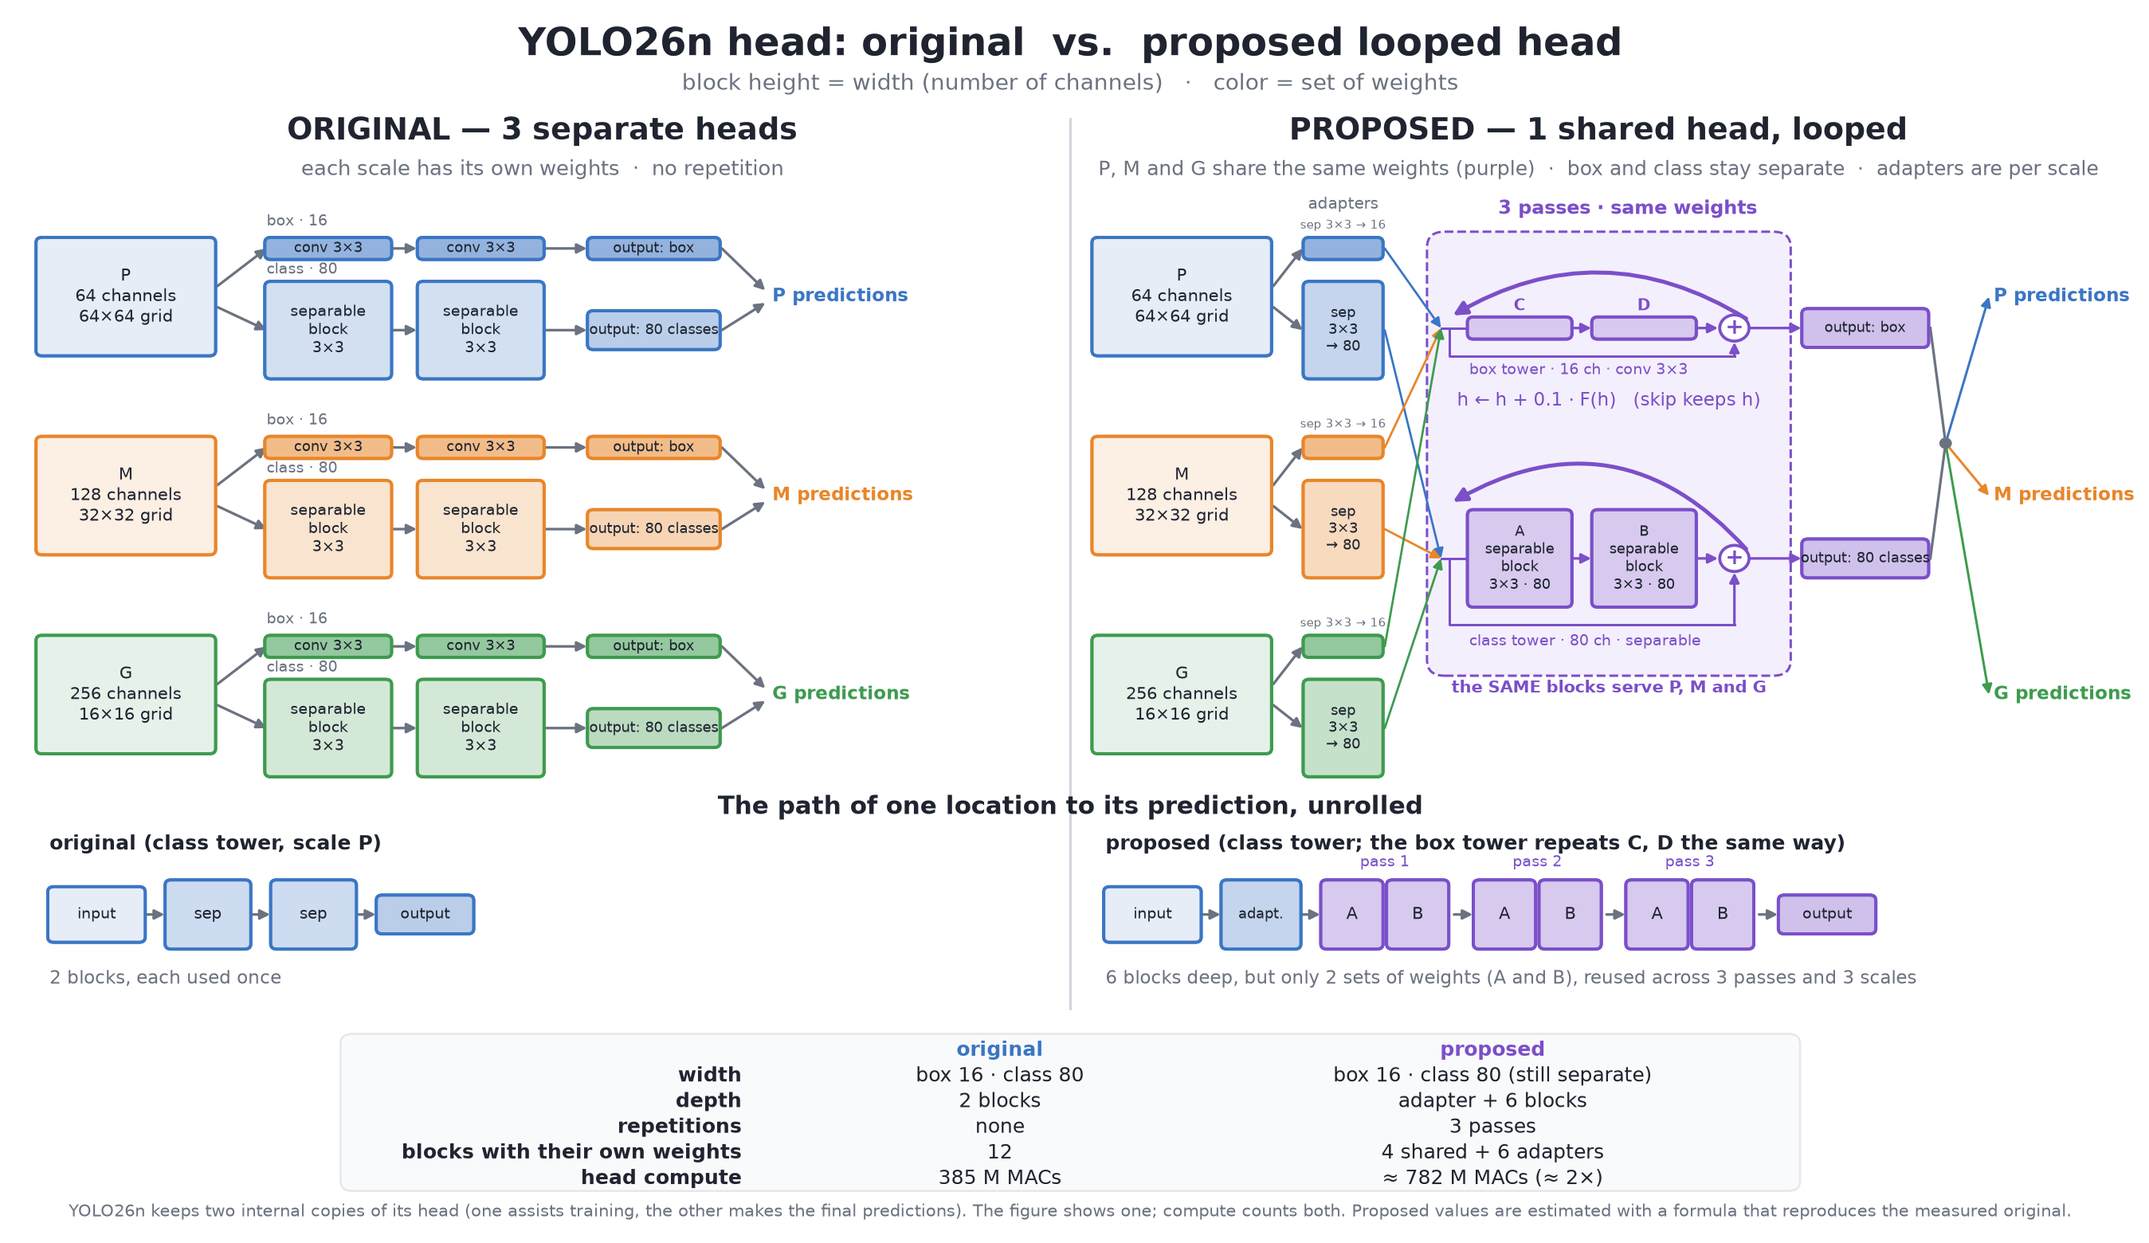
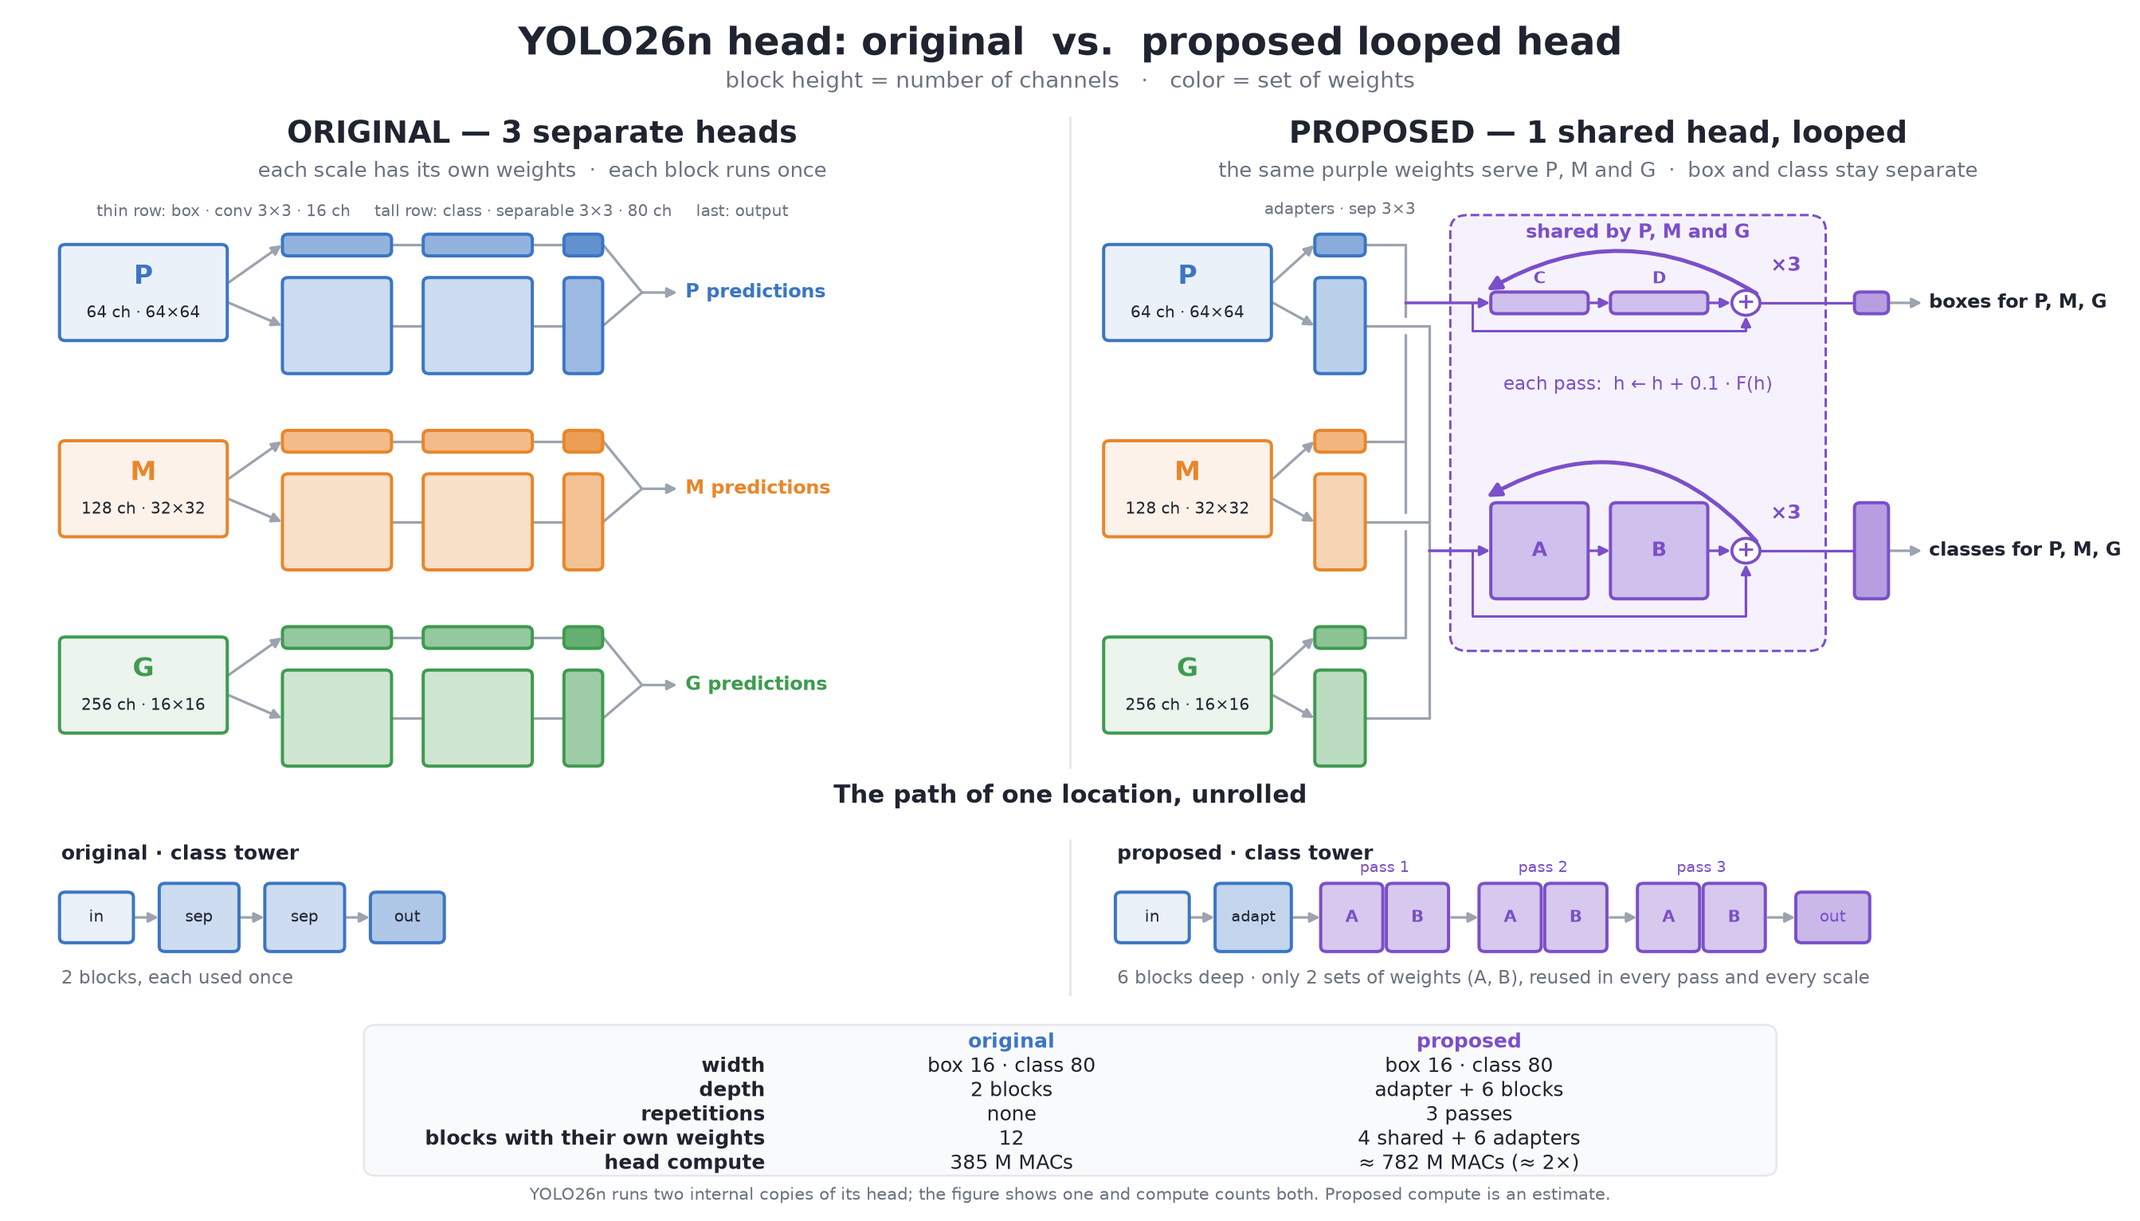
docs(readme): declutter the looped-head figure

diff --git a/scripts/draw_looped_head.py b/scripts/draw_looped_head.py
@@ -1,3 +1,4 @@
+#!/usr/bin/env python3
 """Draw assets/looped-head.png: YOLO26n's three heads vs. one looped head shared by all scales.
 
 Block height is proportional to channel width; colors mark separate sets of weights.
@@ -12,159 +13,165 @@ from matplotlib.patches import FancyBboxPatch, FancyArrowPatch, Circle
 OUT = Path(__file__).resolve().parents[1] / "assets" / "looped-head.png"
 SCALE = {"P": "#3B76C4", "M": "#E8862A", "G": "#3E9B4F"}
 SHARED = "#7B4FC9"
-INK = "#1F2430"
-GREY = "#6B7280"
-H80 = 9.0                      # drawn height for 80 channels; height is proportional to width
+INK, GREY, LINE = "#1F2430", "#6B7280", "#9CA3AF"
+H80 = 9.0                      # drawn height of 80 channels; height is proportional to width
 H16 = H80 * 16 / 80
+ROWS = {"P": (77, "64 ch · 64×64"), "M": (58, "128 ch · 32×32"), "G": (39, "256 ch · 16×16")}
 
 
-def box(ax, x, y, w, h, color, text="", fs=9, alpha=.22, tc=INK, lw=1.6, bold=False):
-    ax.add_patch(FancyBboxPatch((x, y - h / 2), w, h, boxstyle="round,pad=0.15,rounding_size=0.5",
-                                fc=color, ec=color, lw=lw, alpha=1, zorder=2))
-    ax.add_patch(FancyBboxPatch((x, y - h / 2), w, h, boxstyle="round,pad=0.15,rounding_size=0.5",
-                                fc="white", ec="none", alpha=1 - alpha, zorder=2.1))
-    ax.add_patch(FancyBboxPatch((x, y - h / 2), w, h, boxstyle="round,pad=0.15,rounding_size=0.5",
-                                fc="none", ec=color, lw=lw, zorder=2.2))
+def box(ax, x, y, w, h, color, text="", fs=9, alpha=.22, lw=1.6, bold=False, tc=INK):
+    style = "round,pad=0.15,rounding_size=0.5"
+    ax.add_patch(FancyBboxPatch((x, y - h / 2), w, h, boxstyle=style, fc=color, ec="none", alpha=alpha, zorder=2))
+    ax.add_patch(FancyBboxPatch((x, y - h / 2), w, h, boxstyle=style, fc="none", ec=color, lw=lw, zorder=2.2))
     if text:
         ax.text(x + w / 2, y, text, ha="center", va="center", fontsize=fs, color=tc, zorder=3,
                 fontweight="bold" if bold else "normal")
 
 
-def arrow(ax, a, b, color=GREY, rad=0., lw=1.3, style="-|>", ms=10, z=1.5):
-    ax.add_patch(FancyArrowPatch(a, b, arrowstyle=style, mutation_scale=ms, color=color, lw=lw,
-                                 connectionstyle=f"arc3,rad={rad}", zorder=z, shrinkA=0, shrinkB=0))
+def arrow(ax, a, b, color=LINE, rad=0., lw=1.3, ms=10):
+    ax.add_patch(FancyArrowPatch(a, b, arrowstyle="-|>", mutation_scale=ms, color=color, lw=lw,
+                                 connectionstyle=f"arc3,rad={rad}", zorder=1.5, shrinkA=0, shrinkB=0))
 
 
-fig, ax = plt.subplots(figsize=(19, 11), dpi=180)
-ax.set_xlim(0, 180); ax.set_ylim(-12, 104); ax.axis("off")
+def seg(ax, xs, ys, color=LINE, lw=1.3, z=1.4):
+    ax.plot(xs, ys, color=color, lw=lw, zorder=z, solid_capstyle="round")
+
+
+def scale_input(ax, x, s, y, desc):
+    box(ax, x, y, 14, 9, SCALE[s], "", alpha=.1)
+    ax.text(x + 7, y + 1.5, s, ha="center", va="center", fontsize=13, fontweight="bold", color=SCALE[s], zorder=3)
+    ax.text(x + 7, y - 2, desc, ha="center", va="center", fontsize=8, color=INK, zorder=3)
+
+
+fig, ax = plt.subplots(figsize=(19, 10.8), dpi=180)
+ax.set_xlim(0, 180); ax.set_ylim(-11.5, 104); ax.axis("off")
 ax.text(90, 101, "YOLO26n head: original  vs.  proposed looped head", ha="center", va="center",
         fontsize=19, fontweight="bold", color=INK)
-ax.text(90, 97.3, "block height = width (number of channels)   ·   color = set of weights",
-        ha="center", va="center", fontsize=11, color=GREY)
-ax.plot([90, 90], [9, 94], color="#D1D5DB", lw=1.2)
-
-rows = {"P": (77, "64 channels\n64×64 grid"),
-        "M": (58, "128 channels\n32×32 grid"),
-        "G": (39, "256 channels\n16×16 grid")}
+ax.text(90, 97.4, "block height = number of channels   ·   color = set of weights", ha="center", va="center",
+        fontsize=11, color=GREY)
+seg(ax, [90, 90], [31, 94], "#E5E7EB", 1.2)
+seg(ax, [90, 90], [9, 24], "#E5E7EB", 1.2)
 
 # ---------------------------------------------------------------- ORIGINAL
-ax.text(45, 92, "ORIGINAL — 3 separate heads", ha="center", fontsize=15, fontweight="bold", color=INK)
-ax.text(45, 88.6, "each scale has its own weights  ·  no repetition", ha="center", fontsize=10.5, color=GREY)
-for s, (y, desc) in rows.items():
+ax.text(45, 91.5, "ORIGINAL — 3 separate heads", ha="center", fontsize=15, fontweight="bold", color=INK)
+ax.text(45, 88.2, "each scale has its own weights  ·  each block runs once", ha="center", fontsize=10.5, color=GREY)
+for s, (y, desc) in ROWS.items():
     c = SCALE[s]
-    box(ax, 2, y, 15, 11, c, f"{s}\n{desc}", fs=8.6, alpha=.12)
+    scale_input(ax, 4, s, y, desc)
     yb, yc = y + 4.6, y - 3.2
-    ax.text(21.5, yb + 2.2, "box · 16", fontsize=7.5, color=GREY)
-    ax.text(21.5, yc + H80 / 2 + .9, "class · 80", fontsize=7.5, color=GREY)
-    arrow(ax, (17.3, y + 1), (21.5, yb)); arrow(ax, (17.3, y - 1), (21.5, yc))
-    for i, x in enumerate((21.5, 34.5)):
-        box(ax, x, yb, 10.5, H16, c, "conv 3×3", fs=7, alpha=.55)
-        box(ax, x, yc, 10.5, H80, c, "separable\nblock\n3×3", fs=7.6, alpha=.22)
-        if i == 0:
-            arrow(ax, (32.2, yb), (34.3, yb)); arrow(ax, (32.2, yc), (34.3, yc))
-    arrow(ax, (45.2, yb), (48.8, yb)); arrow(ax, (45.2, yc), (48.8, yc))
-    box(ax, 49, yb, 11, H16, c, "output: box", fs=7, alpha=.55)
-    box(ax, 49, yc, 11, 3.4, c, "output: 80 classes", fs=7, alpha=.35)
-    arrow(ax, (60.3, yb), (64, y + .6)); arrow(ax, (60.3, yc), (64, y - .6))
-    ax.text(64.6, y, f"{s} predictions", va="center", fontsize=9, color=c, fontweight="bold")
+    arrow(ax, (18.3, y + 1), (22.8, yb)); arrow(ax, (18.3, y - 1), (22.8, yc))
+    for x in (23, 35):
+        box(ax, x, yb, 9, H16, c, alpha=.55)
+        box(ax, x, yc, 9, H80, c, alpha=.25)
+    seg(ax, [32.2, 34.8], [yb, yb]); seg(ax, [32.2, 34.8], [yc, yc])
+    seg(ax, [44.2, 46.8], [yb, yb]); seg(ax, [44.2, 46.8], [yc, yc])
+    box(ax, 47, yb, 3, H16, c, alpha=.8); box(ax, 47, yc, 3, H80, c, alpha=.5)
+    seg(ax, [50.2, 53.5], [yb, y]); seg(ax, [50.2, 53.5], [yc, y])
+    arrow(ax, (53.5, y), (56.5, y))
+    ax.text(57.2, y, f"{s} predictions", va="center", fontsize=9.5, color=c, fontweight="bold")
+ax.text(36.5, 84.4, "thin row: box · conv 3×3 · 16 ch     tall row: class · separable 3×3 · 80 ch     last: output",
+        ha="center", fontsize=7.8, color=GREY)
 
 # ---------------------------------------------------------------- PROPOSED
-ax.text(135, 92, "PROPOSED — 1 shared head, looped", ha="center", fontsize=15, fontweight="bold", color=INK)
-ax.text(135, 88.6, "P, M and G share the same weights (purple)  ·  box and class stay separate  ·  adapters are per scale",
-        ha="center", fontsize=10, color=GREY)
-YB, YC = 74, 52            # shared box tower, shared class tower
-ax.text(113.25, 85.4, "adapters", ha="center", fontsize=8.2, color=GREY)
-for s, (y, desc) in rows.items():
+ax.text(135, 91.5, "PROPOSED — 1 shared head, looped", ha="center", fontsize=15, fontweight="bold", color=INK)
+ax.text(135, 88.2, "the same purple weights serve P, M and G  ·  box and class stay separate",
+        ha="center", fontsize=10.5, color=GREY)
+YB, YC = 76, 52                 # shared box tower, shared class tower
+BOX_BUS, CLS_BUS = 118.6, 120.6
+ax.text(113, 84.6, "adapters · sep 3×3", ha="center", fontsize=7.8, color=GREY)
+box_ys, cls_ys = [], []
+for s, (y, desc) in ROWS.items():
     c = SCALE[s]
-    box(ax, 92, y, 15, 11, c, f"{s}\n{desc}", fs=8.6, alpha=.12)
+    scale_input(ax, 93, s, y, desc)
     yb, yc = y + 4.6, y - 3.2
-    arrow(ax, (107.3, y + 1), (109.8, yb)); arrow(ax, (107.3, y - 1), (109.8, yc))
-    box(ax, 110, yb, 6.5, H16, c, "", alpha=.55)
-    ax.text(113.25, yb + 1.9, "sep 3×3 → 16", ha="center", fontsize=6.2, color=GREY)
-    box(ax, 110, yc, 6.5, H80, c, "sep\n3×3\n→ 80", fs=7, alpha=.3)
-    # each scale feeds both shared towers; route color = scale
-    arrow(ax, (116.8, yb), (121.6, YB), color=c, lw=1.1); arrow(ax, (116.8, yc), (121.6, YC), color=c, lw=1.1)
-ax.add_patch(FancyBboxPatch((120.6, 41), 30.6, 42, boxstyle="round,pad=0.2,rounding_size=1.5",
-                            fc="#F4EFFC", ec=SHARED, lw=1.2, ls="--", zorder=.8))
-ax.text(137.5, 84.9, "3 passes · same weights", ha="center", fontsize=9.6, color=SHARED, fontweight="bold")
-ax.text(135.9, 39.2, "the SAME blocks serve P, M and G", ha="center", fontsize=8.6, color=SHARED, fontweight="bold")
-ax.text(135.9, 66.6, "h ← h + 0.1 · F(h)   (skip keeps h)", ha="center", fontsize=9, color=SHARED)
+    box_ys.append(yb); cls_ys.append(yc)
+    arrow(ax, (107.3, y + 1), (110.8, yb)); arrow(ax, (107.3, y - 1), (110.8, yc))
+    box(ax, 111, yb, 4, H16, c, alpha=.6)
+    box(ax, 111, yc, 4, H80, c, alpha=.35)
+    seg(ax, [115.2, BOX_BUS], [yb, yb])
+    seg(ax, [115.2, CLS_BUS], [yc, yc])
+# two buses gather the three scales; the box bus is broken where class stubs pass
+crossings = sorted(v for v in cls_ys if min(box_ys) < v < max(box_ys))
+edges = [min(box_ys)] + [e for v in crossings for e in (v - .9, v + .9)] + [max(box_ys)]
+for lo, hi in zip(edges[::2], edges[1::2]):
+    seg(ax, [BOX_BUS, BOX_BUS], [lo, hi])
+seg(ax, [CLS_BUS, CLS_BUS], [min(cls_ys), max(cls_ys)])
+arrow(ax, (BOX_BUS, YB), (125.8, YB), SHARED, lw=1.4)
+arrow(ax, (CLS_BUS, YC), (125.8, YC), SHARED, lw=1.4)
+
+ax.add_patch(FancyBboxPatch((122.6, 42.5), 31.6, 41.8, boxstyle="round,pad=0.2,rounding_size=1.5",
+                            fc="#F6F2FD", ec=SHARED, lw=1.2, ls="--", zorder=.8))
+ax.text(138.4, 82.3, "shared by P, M and G", ha="center", fontsize=9.5, color=SHARED, fontweight="bold")
+ax.text(138.4, 67.6, "each pass:  h ← h + 0.1 · F(h)", ha="center", fontsize=9, color=SHARED)
 
 
-def looped_tower(yt, height, names, texts, rad, lift):
-    box(ax, 124, yt, 8.6, height, SHARED, texts[0], fs=7.4, alpha=.3)
-    arrow(ax, (132.8, yt), (134.4, yt), color=SHARED)
-    box(ax, 134.6, yt, 8.6, height, SHARED, texts[1], fs=7.4, alpha=.3)
-    ax.add_patch(Circle((146.6, yt), 1.25, fc="white", ec=SHARED, lw=1.5, zorder=3))
-    ax.text(146.6, yt, "+", ha="center", va="center", fontsize=11, color=SHARED, fontweight="bold", zorder=4)
-    arrow(ax, (143.4, yt), (145.2, yt), color=SHARED)
+def tower(yt, height, names, rad, lift):
+    x1, x2, cx = 126, 136.2, 147.6
+    for x, n in zip((x1, x2), names):
+        box(ax, x, yt, 8, height, SHARED, n if height > 4 else "", fs=10, alpha=.3, bold=True, tc=SHARED)
+        if height <= 4:
+            ax.text(x + 4, yt + 1.9, n, ha="center", fontsize=8.5, color=SHARED, fontweight="bold")
+    arrow(ax, (134.2, yt), (136.0, yt), SHARED)
+    arrow(ax, (144.4, yt), (146.3, yt), SHARED)
+    ax.add_patch(Circle((cx, yt), 1.2, fc="white", ec=SHARED, lw=1.5, zorder=3))
+    ax.text(cx, yt, "+", ha="center", va="center", fontsize=11, color=SHARED, fontweight="bold", zorder=4)
     low = yt - height / 2 - 1.8
-    ax.plot([122.3, 122.3, 146.6], [yt, low, low], color=SHARED, lw=1.2, zorder=1.6)
-    arrow(ax, (146.6, low), (146.6, yt - 1.35), color=SHARED)
-    arrow(ax, (147.6, yt + .9), (122.6, yt + lift), color=SHARED, rad=rad, lw=2, ms=14)
-    if not texts[0]:
-        for x, n in zip((128.3, 138.9), names):
-            ax.text(x, yt + 1.7, n, ha="center", fontsize=8, color=SHARED, fontweight="bold")
+    seg(ax, [124.3, 124.3, cx], [yt, low, low], SHARED, 1.2, 1.6)
+    arrow(ax, (cx, low), (cx, yt - 1.3), SHARED)
+    arrow(ax, (cx + .9, yt + .9), (125.5, yt + lift), SHARED, rad=rad, lw=2, ms=14)
+    ax.text(cx + 2.1, yt + 3.1, "×3", fontsize=10, color=SHARED, fontweight="bold")
 
 
-ax.plot([121.6, 124], [YB, YB], color=SHARED, lw=1.2); ax.plot([121.6, 124], [YC, YC], color=SHARED, lw=1.2)
-looped_tower(YB, H16, ("C", "D"), ("", ""), .3, 1.2)
-ax.text(124, YB - 4.4, "box tower · 16 ch · conv 3×3", fontsize=7.6, color=SHARED)
-looped_tower(YC, H80, ("A", "B"), ("A\nseparable\nblock\n3×3 · 80", "B\nseparable\nblock\n3×3 · 80"), .4, 5.4)
-ax.text(124, YC - 8.3, "class tower · 80 ch · separable", fontsize=7.6, color=SHARED)
-arrow(ax, (147.9, YB), (152.3, YB), color=SHARED); arrow(ax, (147.9, YC), (152.3, YC), color=SHARED)
-box(ax, 152.5, YB, 10.5, 3.4, SHARED, "output: box", fs=7, alpha=.35)
-box(ax, 152.5, YC, 10.5, 3.4, SHARED, "output: 80 classes", fs=7, alpha=.35)
-ax.plot([163.3, 164.6], [YB, 63], color=GREY, lw=1.3); ax.plot([163.3, 164.6], [YC, 63], color=GREY, lw=1.3)
-ax.add_patch(Circle((164.6, 63), .45, fc=GREY, ec=GREY, zorder=3))
-for s, (y, _) in rows.items():
-    arrow(ax, (164.6, 63), (168.3, y), color=SCALE[s], lw=1.2)
-    ax.text(168.7, y, f"{s} predictions", va="center", fontsize=9, color=SCALE[s], fontweight="bold")
+tower(YB, H16, ("C", "D"), .3, 1.2)
+tower(YC, H80, ("A", "B"), .4, 5.2)
+for yt, h, label in ((YB, H16, "boxes"), (YC, H80, "classes")):
+    seg(ax, [148.8, 156.8], [yt, yt], SHARED)
+    box(ax, 157, yt, 2.6, h, SHARED, alpha=.55)
+    arrow(ax, (159.8, yt), (162.6, yt))
+    ax.text(163.2, yt, f"{label} for P, M, G", va="center", fontsize=9.5, color=INK, fontweight="bold")
 
-# ---------------------------------------------------------------- UNROLLED DEPTH
-ax.text(90, 27.6, "The path of one location to its prediction, unrolled", ha="center", fontsize=12.5,
-        fontweight="bold", color=INK)
-y = 18
-ax.text(3, y + 6.2, "original (class tower, scale P)", fontsize=10, fontweight="bold", color=INK)
-box(ax, 3, y, 8, 5, SCALE["P"], "input", fs=7.5, alpha=.12)
-x = 13
-for label in ("sep", "sep"):
-    arrow(ax, (x - 1.8, y), (x - .2, y)); box(ax, x, y, 7, H80 * .7, SCALE["P"], label, fs=8, alpha=.25); x += 9
-arrow(ax, (x - 1.8, y), (x - .2, y)); box(ax, x, y, 8, 3.4, SCALE["P"], "output", fs=7.5, alpha=.35)
-ax.text(3, y - 6.6, "2 blocks, each used once", fontsize=9, color=GREY)
+# ---------------------------------------------------------------- UNROLLED PATH
+ax.text(90, 27.6, "The path of one location, unrolled", ha="center", fontsize=12.5, fontweight="bold", color=INK)
+y = 16.5
+ax.text(4, y + 5.6, "original · class tower", fontsize=9.8, fontweight="bold", color=INK)
+box(ax, 4, y, 6, 4.6, SCALE["P"], "in", fs=8, alpha=.1)
+x = 12.5
+for _ in range(2):
+    arrow(ax, (x - 2.2, y), (x - .2, y)); box(ax, x, y, 6.5, H80 * .7, SCALE["P"], "sep", fs=8, alpha=.25); x += 9
+arrow(ax, (x - 2.2, y), (x - .2, y)); box(ax, x, y, 6, 4.6, SCALE["P"], "out", fs=8, alpha=.4)
+ax.text(4, y - 6.4, "2 blocks, each used once", fontsize=9, color=GREY)
 
-ax.text(93, y + 6.2, "proposed (class tower; the box tower repeats C, D the same way)", fontsize=10, fontweight="bold", color=INK)
-box(ax, 93, y, 8, 5, SCALE["P"], "input", fs=7.5, alpha=.12)
-arrow(ax, (101.2, y), (102.8, y)); box(ax, 103, y, 6.5, H80 * .7, SCALE["P"], "adapt.", fs=7.3, alpha=.3)
+ax.text(94, y + 5.6, "proposed · class tower", fontsize=9.8, fontweight="bold", color=INK)
+box(ax, 94, y, 6, 4.6, SCALE["P"], "in", fs=8, alpha=.1)
+arrow(ax, (100.3, y), (102.3, y)); box(ax, 102.5, y, 6.2, H80 * .7, SCALE["P"], "adapt", fs=7.6, alpha=.3)
 x = 111.5
 for turn in range(3):
-    arrow(ax, (x - 1.8, y), (x - .2, y))
-    box(ax, x, y, 5, H80 * .7, SHARED, "A", fs=8.5, alpha=.3)
-    box(ax, x + 5.6, y, 5, H80 * .7, SHARED, "B", fs=8.5, alpha=.3)
-    ax.text(x + 5.3, y + 4.6, f"pass {turn + 1}", ha="center", fontsize=7.6, color=SHARED)
-    x += 13
-arrow(ax, (x - 1.8, y), (x - .2, y)); box(ax, x, y, 8, 3.4, SHARED, "output", fs=7.5, alpha=.35)
-ax.text(93, y - 6.6, "6 blocks deep, but only 2 sets of weights (A and B), reused across 3 passes and 3 scales",
+    arrow(ax, (x - 2.5, y), (x - .2, y))
+    box(ax, x, y, 5, H80 * .7, SHARED, "A", fs=8.5, alpha=.3, tc=SHARED, bold=True)
+    box(ax, x + 5.6, y, 5, H80 * .7, SHARED, "B", fs=8.5, alpha=.3, tc=SHARED, bold=True)
+    ax.text(x + 5.3, y + 4.4, f"pass {turn + 1}", ha="center", fontsize=7.6, color=SHARED)
+    x += 13.5
+arrow(ax, (x - 2.5, y), (x - .2, y)); box(ax, x, y, 6, 4.6, SHARED, "out", fs=8, alpha=.4, tc=SHARED)
+ax.text(94, y - 6.4, "6 blocks deep · only 2 sets of weights (A, B), reused in every pass and every scale",
         fontsize=9, color=GREY)
 
 # ---------------------------------------------------------------- NUMBERS
 rows_txt = [("", "original", "proposed"),
-            ("width", "box 16 · class 80", "box 16 · class 80 (still separate)"),
+            ("width", "box 16 · class 80", "box 16 · class 80"),
             ("depth", "2 blocks", "adapter + 6 blocks"),
             ("repetitions", "none", "3 passes"),
             ("blocks with their own weights", "12", "4 shared + 6 adapters"),
             ("head compute", "385 M MACs", "≈ 782 M MACs (≈ 2×)")]
-ax.add_patch(FancyBboxPatch((28, -8.2), 124, 14.6, boxstyle="round,pad=0.2,rounding_size=1",
+ax.add_patch(FancyBboxPatch((30, -8.3), 120, 14.2, boxstyle="round,pad=0.2,rounding_size=1",
                             fc="#F9FAFB", ec="#E5E7EB", lw=1, zorder=.5))
 for i, (a, b, c) in enumerate(rows_txt):
-    yy = 5 - i * 2.45
+    yy = 4.4 - i * 2.35
     weight = "bold" if i == 0 else "normal"
-    ax.text(62, yy, a, ha="right", va="center", fontsize=10, color=INK, fontweight="bold")
-    ax.text(84, yy, b, ha="center", va="center", fontsize=10, color=SCALE["P"] if i == 0 else INK, fontweight=weight)
-    ax.text(126, yy, c, ha="center", va="center", fontsize=10, color=SHARED if i == 0 else INK, fontweight=weight)
-ax.text(90, -10.4, "YOLO26n keeps two internal copies of its head (one assists training, the other makes the final predictions). "
-        "The figure shows one; compute counts both. Proposed values are estimated with a formula that reproduces the measured original.",
-        ha="center", va="center", fontsize=8.6, color=GREY)
+    ax.text(64, yy, a, ha="right", va="center", fontsize=10, color=INK, fontweight="bold")
+    ax.text(85, yy, b, ha="center", va="center", fontsize=10, color=SCALE["P"] if i == 0 else INK, fontweight=weight)
+    ax.text(124, yy, c, ha="center", va="center", fontsize=10, color=SHARED if i == 0 else INK, fontweight=weight)
+ax.text(90, -10.4, "YOLO26n runs two internal copies of its head; the figure shows one and compute counts both. "
+        "Proposed compute is an estimate.", ha="center", va="center", fontsize=8.6, color=GREY)
 
 OUT.parent.mkdir(parents=True, exist_ok=True)
 fig.savefig(OUT, bbox_inches="tight", facecolor="white")
